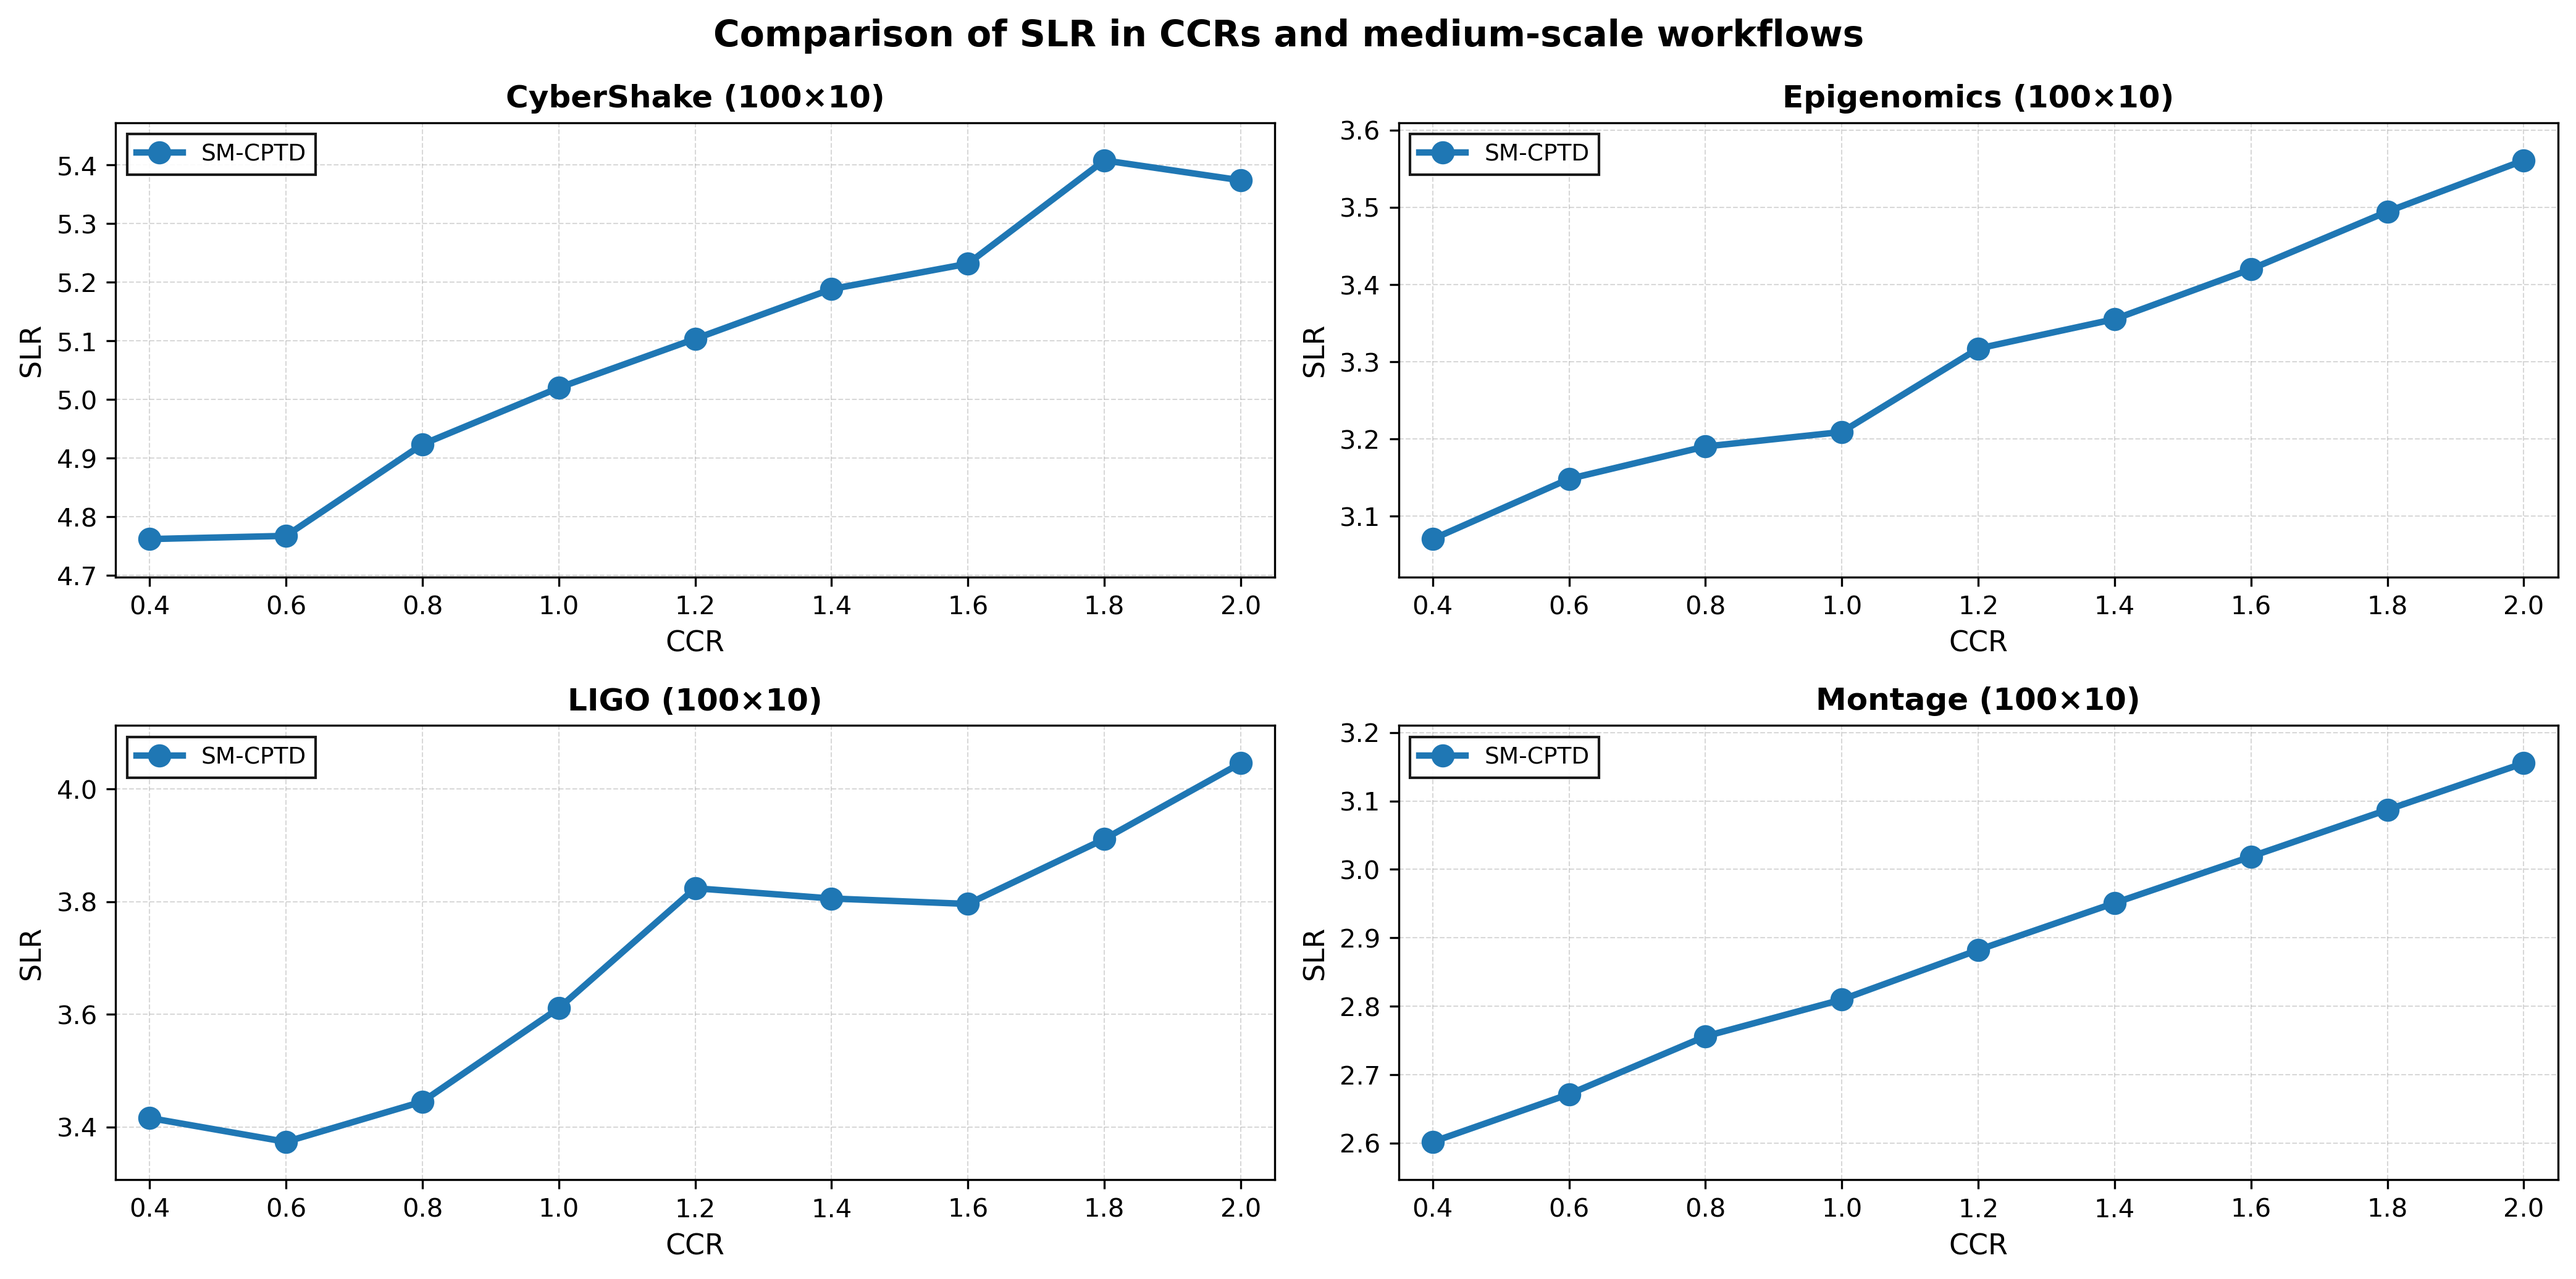
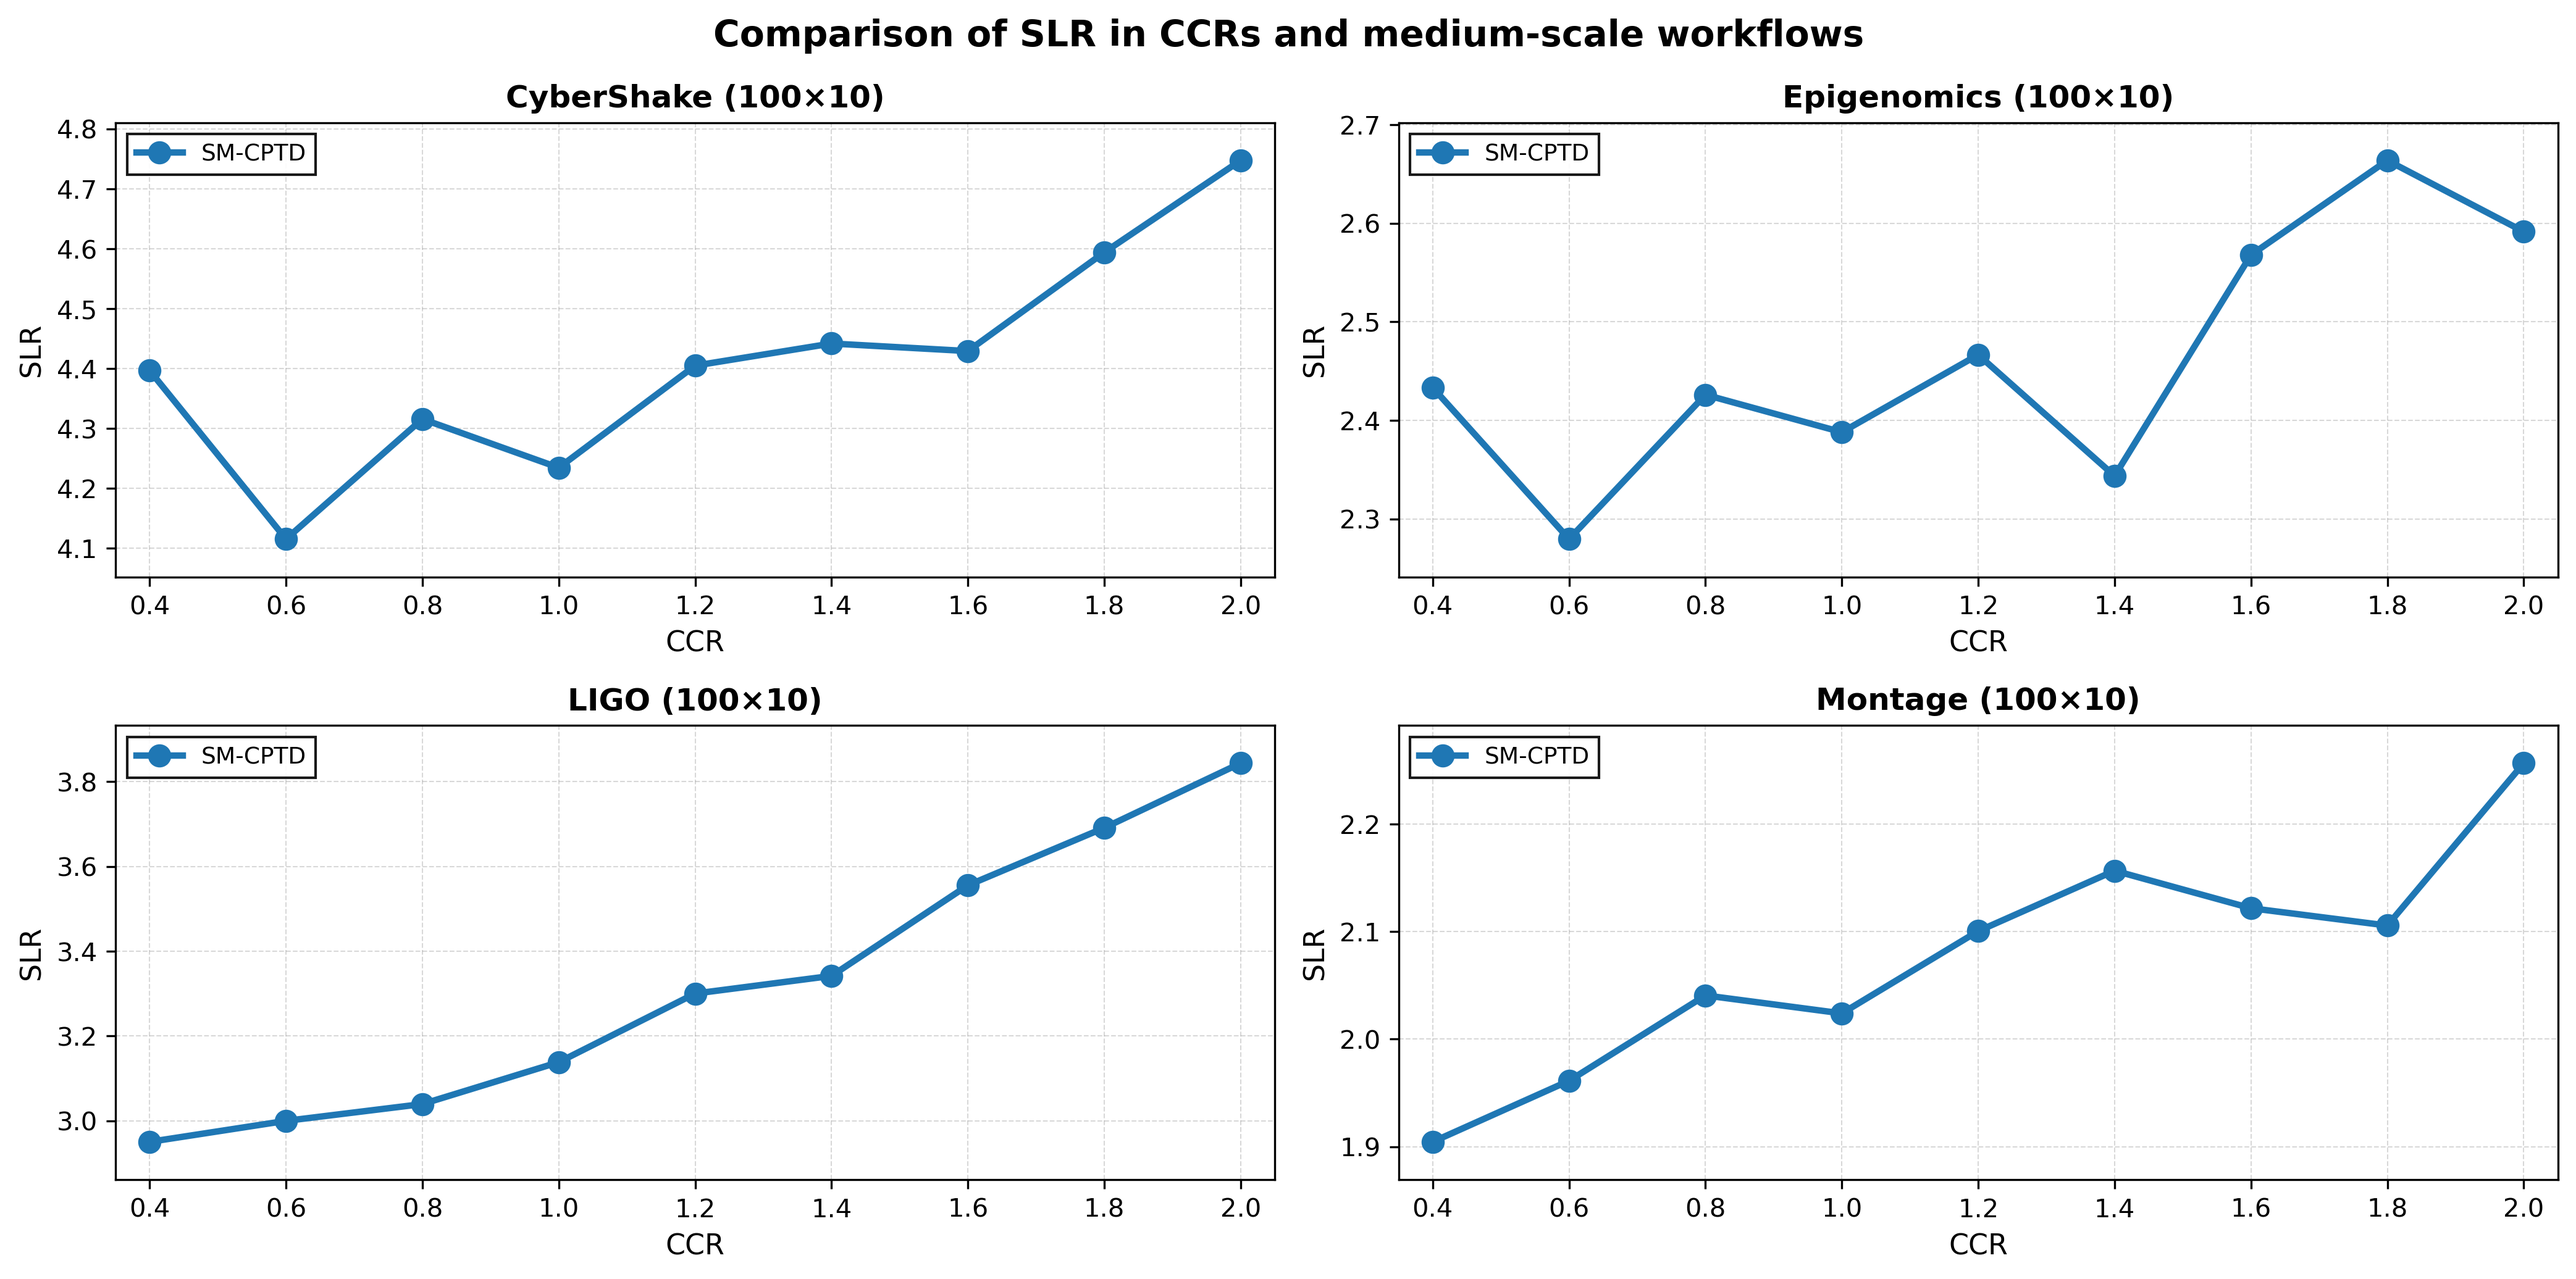
Update README and requirements, refactor ExperimentRunner, and enhance figure outputs

diff --git a/algorithms/Main.java b/algorithms/Main.java
@@ -6,7 +6,7 @@ public class Main {
 
     public static void main(String[] args) throws Exception {
         // To disable seeding and use truly random values, uncomment the line below:
-        // SeededRandom.setUseSeed(false);
+         SeededRandom.setUseSeed(false);
         
         SeededRandom.initFromArgs(args);
         System.out.println("Starting experiments...");

diff --git a/algorithms/ExperimentRunner.java b/algorithms/ExperimentRunner.java
@@ -24,7 +24,7 @@ import java.util.*;
  */
 public class ExperimentRunner {
 
-    private static final int NUM_RUNS = 5;
+    private static final int NUM_RUNS = 10;
     private static final int WARMUP_RUNS = 0;
 
     private static final String[] WORKFLOWS = { "cybershake", "epigenomics", "ligo", "montage" };

diff --git a/README.md b/README.md
@@ -51,9 +51,10 @@ stable-matching-game-theory/
 
 ### Requirements
 
-- Java 8+ (JDK)
-- Python 3 (only for figure generation)
-- Python packages: `pandas`, `matplotlib`
+- **Java**: OpenJDK 23.0.2 (Temurin) or compatible JDK 17+
+  - Download: [Eclipse Temurin](https://adoptium.net/)
+- **Python 3**: Only required for figure generation
+- **Python packages**: `pandas`, `matplotlib`, `seaborn`, `numpy`
 
 Install Python dependencies:
 
@@ -171,7 +172,7 @@ $$\text{satisfaction}(t_i)=\frac{ET(t_i,\;\text{assigned VM})}{\min_k ET(t_i,\;V
 
 This ratio is always $\ge 1$ (values closer to 1 indicate that the task is executed on a VM close to its best possible option).
 Then, **VF** is computed as the (population) variance of satisfaction across all scheduled tasks: 
-$$ VF = \frac{1}{n} \sum_{i=1}^{n} (M - S_i)^2 $$
+$$VF = \frac{1}{n} \sum_{i=1}^{n} (M - S_i)^2 $$
 Where $$S_i$$ is the satisfaction of the 
 𝑖-th task and $$M$$ is the mean satisfaction across all tasks.
 
@@ -187,7 +188,7 @@ Interpretation:
 
 | Average task satisfaction across workflows (large-scale, CCR=1.0). |
 |----------------|
-|![nobase](results/figures/figure_vf_vs_vms.png) |
+|![nobase](results/figures/figure_avg_satisfaction_vs_workflow_1000x50_ccr1.png) |
 
 
 ## Ablation Study
@@ -229,8 +230,7 @@ Overall, the SM-CPTD pipeline provides a practical scheduling approach that bala
 
 ## References
 
-- [Z. hong Jia, L. Pan, X. Liu, and X. jun Li. A novel cloud workflow scheduling algorithm based on stable matching game theory. ](https://link.springer.com/article/10.1007/s11227-021-03742-3) The Journal of Supercomputing, 77(10):11597–11624,
-2021.
-- [DAX-file: workflows dax format. ](https://github.com/adnanetalha/DAX-file).
+- [Z. hong Jia, L. Pan, X. Liu, and X. jun Li. A novel cloud workflow scheduling algorithm based on stable matching game theory. ](https://link.springer.com/article/10.1007/s11227-021-03742-3) The Journal of Supercomputing, 77(10):11597–11624, 2021.
+- [DAX-file: workflows dax format](https://github.com/adnanetalha/DAX-file).
 
 

diff --git a/algorithms/README.md b/algorithms/README.md
@@ -1,4 +1,4 @@
-# SM-CPTD Java Module (algorithms/)
+# SM-CPTD (algorithms/)
 ## Overview
 
 This folder contains the Java implementation of the SM-CPTD workflow scheduler, together with the components required to compute the evaluation metrics used in the associated paper.
@@ -112,7 +112,7 @@ Performs level-by-level task scheduling:
 - Computes per-VM capacity thresholds (how many tasks a VM can accept).
 - Uses a stable matching process for non-CP tasks based on task/VM preferences.
 
-The `VM.waitingList` is used to track assigned tasks and enforces capacity constraints (`waitingList.size() >= threshold`).
+The `VM.waitingList` is used to track assigned tasks and enforces capacity constraints (`waitingList.size() < threshold`).
 
 ### `LOTD.java` - List of Task Duplication
 
@@ -160,23 +160,6 @@ java PegasusXMLParser
 ```
 The runners may also automatically generate missing datasets by selecting the closest matching XML workflow.
 
----
-
-## Build and Execution
-
-Compile:
-
-```bash
-cd algorithms
-javac *.java
-```
-
-Run the main experiment pipeline:
-
-```bash
-cd algorithms
-java Main
-```
 ---
 
 ### Reproducibility
